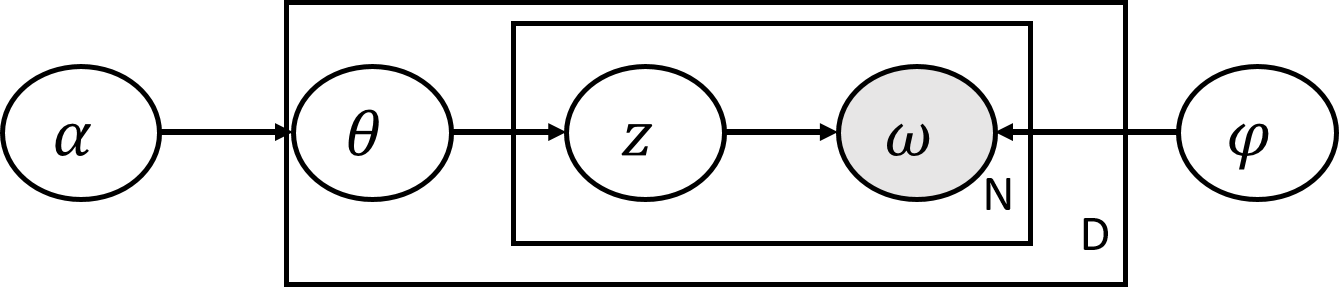
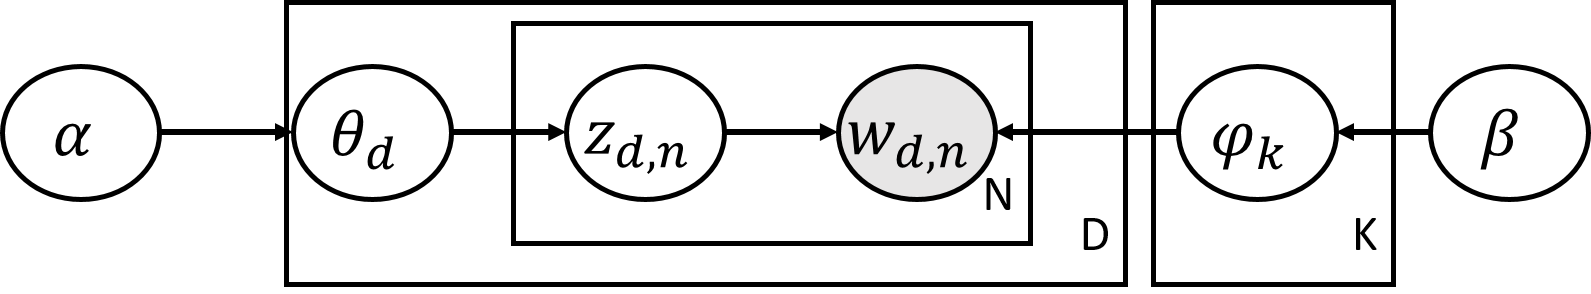
portfolio edited

Changed region(s): [[0.1531, 0.0, 1.0, 0.9796], [0.0, 0.2143, 0.1225, 0.7041]]

diff --git a/_machine/2019-07-27-Latent Dirichlet Allocation.md b/_machine/2019-07-27-Latent Dirichlet Allocation.md
@@ -7,7 +7,7 @@ mathjax: true
 
 We have discussed about general Expectation Maximization algorithm and how it can be used in optimizing Gaussian Mixture Model. In this article, we will talk how EM can be used in Latent Dirichlet Allocation, which is one of method of topic modeling.
 
-Before we get into LDA, let's see what Dirichlet distribution  and Beta distribution is.
+Before we get into LDA, let's see what Dirichlet distribution and Beta distribution are.
 
 
 
@@ -23,7 +23,7 @@ And gamma function in above equation is:
 
 $$ \Gamma(x) = \int_0^\infty \theta^{x-1} e^{-\theta} d\theta$$
 
-Beta distribution is widely used, because it is  conjugate priors for the binomial and Bernoulli distribution. Here is how Beta distribution looks like with different parameters:
+Beta distribution is widely used, because it is conjugate priors for the binomial and Bernoulli distribution. Here is how Beta distribution looks like with different parameters:
 
 <p align= "center">
     <img src = "../../assets/img/machine/12-beta.png" width= "70%">
@@ -61,27 +61,51 @@ We can say Dirichlet distribution is an extension of Beta distribution.
 
 ## Latent Dirichlet Allocation
 
-Suppose we have a customer review on a product. Then the review might consists of several different topics such as positive, negative, opinions about products, price or any other subjects. A document is a distribution over several topics. And the topic is a distribution over words. That is, we assume each document consists of words $$w$$ that are generated from selected topic $$z$$.  And the topic is selected with topic probabilities $$\theta$$, like it does in Gaussian Mixture Model. Directed Acyclic Graph of LDA looks like:
-
-
+Suppose we have a customer review on a product. Then the review might consists of several different topics such as positive, negative, opinions about products, price or any other subjects. A document is a distribution over several topics. And the topic is a distribution over words. That is, we assume each document consists of words $$w$$ that are generated from selected topic $$z$$.  And the topic is selected with topic probabilities $$\theta$$. From the original paper[^1], it uses Poisson distribution to choose the distribution of words for topic, here we will use Dirichlet distribution. Then Directed Acyclic Graph would look like:
 
 <p align="center">
-    <img src ="../../assets/img/machine/12-lda-dag.png" style="width:70%">
+    <img src ="../assets/img/machine/12-lda-dag.png" style="width:70%">
     <br/>
     <sub>DAG of LDA</sub>
 </p>
 
-So each document has topic proportions which is $$\theta_d$$. And for each document and each word, it has per word topic assignment $$z_{dn}$$. And the latent variable $$z_{dn}$$ can take values from 1 to T, the number of topics. We will find this latent variable values from the corpus. Finally, each word $$w_{dn}$$ can take values from 1 to V, where V is the size of category.
+- D is the number of documents and N is the number of words in the document $$d$$.
+- K is the number of topics.
+- $$\alpha$$ and $$\beta$$ are the hyperparameters of the prior distribution over $$\theta$$ and $$\phi$$ respectively.
+- $$\theta_d$$ is the distribution of topics over documents d(K-length vector).
+- $$\phi_k$$ is the distribution of words for topic k(V-length vector).
+- $$ z_{d,n}$$ is the topic for the $$n$$th word in the $$d$$th document, $$w_{d,n}$$.
 
-Now we can define joint probability from above DAG:
 
-$$ p(W, Z, \Theta) = \prod_{d=1}^D p(\theta_d) \prod_{n=1}^{N_d} p(z_{dn}\mid \theta_d) p(w_{dn} \mid z_{dn} ) $$
 
-$$p(\theta_d) \sim Dir(\alpha)$$
+Here is the process of generating documents in LDA:
 
-$$ p(z_{dn} \mid \theta ) = \theta_{dz_{dn}}$$
+1. Draw $$\theta_d \sim \operatorname{Dir}(\alpha)$$
+2. Draw $$\phi_k \sim \operatorname {Dir}(\beta)$$
+3. For each word in each document, draw per-word topic assignment $$z_{d,n} \sim \operatorname{Multinomial}(\theta)$$
+4. For each word in each document, draw observed word $$w_{d,n} \sim \operatorname{Multinomial}(\phi_{z_{d,n},n})$$
 
-$$ p(w_{dn} \mid z_{dn}) = \phi_{z_{dn}w_{dn}}$$
+
+
+From DAG of LDA, we can define the joint probability of the word $$w$$, the latent variable $$z$$, topic distribution over documents $$\theta$$, and the topic distribution over words $$\phi$$ given $$\alpha$$ and $$\beta$$:
+
+$$ p (\theta, z, w, \phi \mid \alpha, \beta) = \prod_k p(\phi_k \mid \beta) \prod_d[ p(\theta_d \mid \alpha) \prod_n p(z_{d,n} \mid \theta_d) p(w_{d,n} \mid z_{d,n}, \phi)]$$
+
+where
+
+$$ p(\phi_k \mid \beta) \sim Dir (\beta)$$
+
+$$p(\theta_d \mid \alpha) \sim Dir(\alpha)$$
+
+$$ p(z_{d,n} \mid \theta_d ) \sim Multinomial(\theta_d)$$
+
+$$ p(z_{d,n} = k \mid \theta_d) = (\theta_d)_k$$
+
+$$ p(w_{d,n} \mid z_{n}, \phi) \sim Multinomial(\phi)$$
+
+$$p(w_{d,n} = v \mid z_{d,n}, \phi_1, ... ,\phi_K) = (\phi_{z_{d,n}})_v$$
+
+<br/>
 
 
 
@@ -95,22 +119,40 @@ $$ L(\theta, q) \rightarrow \underset{q}{\operatorname{argmin}} KL [q(T) \| p(T 
 
 $$ L(\theta, q) \rightarrow \underset{q}{\operatorname{argmax}} \mathbb{E}_{q(T)} \operatorname{log} p (X, T \mid \theta)$$
 
-Here in EM, we evaluate full posterior of T, $$p(T \mid X, \theta)$$. However, this way of evaluating could be slow or even intractable sometimes. Instead, we 
+Here in EM, we evaluate full posterior of T, $$p(T \mid X, \theta)$$ to optimize q. However, this way of evaluating could be slow or even intractable sometimes. Instead, we restrict q to lie in some class of distribution $$Q$$. For instance, we can assume the variational family factorizes:
+
+$$ q(z_1, .., z_m) = \prod_{j=1}^m q(z_j)$$
+
+where each variables are assumed to be independent.
+
+<br/>
+
+So the probability of word given hyperparameters:
+
+$$ p(w \mid \alpha, \beta) = \int \prod_k (\phi_k \mid \beta) \int \sum_z \prod_d[p(\theta_d, \alpha) \prod_n p(z_{d,n } \mid \theta_d) p(w_{d,n} \mid z_{d,n}, \phi) ] d\theta d\phi$$
+
+Then log probability would be
+
+$$ \operatorname{log}p(w \mid \alpha, \beta) = \operatorname{log} \int \int \sum_z p(w, z, \theta, \phi \mid \alpha, \beta) d\theta d\phi $$
+
+using Jensen's inequality gives:
+
+$$ \geq q(z, \theta, \phi) log \int \int \sum_z \frac{p(w, z, \theta, \phi \mid \alpha, \beta)}{q(z, \theta, \phi)} d\theta d\phi $$
+
+Here we restrict the form of q:
+
+$$q(z, \theta, \phi)  = \prod_k q(\phi_k \mid \beta) \prod_d q(\theta_d \mid \alpha) \prod_n q(z_{d,n})$$
 
 
-
-In **E- step**,
-
-$$ L(\theta, q)  $$
-
-To find out latent parameters $$\theta, z, \phi$$, we can use EM algorithm we learned from previous articles.
-
-In **E-step**, we maximize 
 
 
 
 ## Reference
 
+- [^1]: D.M. Blei, A.Y. Ng, and M.I. Jordan. Latent Dirichlet allocation. JMLR, 3:993–1022, 2003.
+
 - Bayesian Methods for Machine Learning by National Research University Higher School of Economics
--  CS498 Applied Machine Learning by Professor Trevor Walker
--  데이터 사이언스 스쿨. (2016, 05 25 Published). 디리클레분포. https://datascienceschool.net/view-notebook/e0508d3b7dd6427eba2d35e1f629d3de/
+
+- CS498 Applied Machine Learning by Professor Trevor Walker
+
+-  will wolf. (2018, 11 11 Published). Deriving Expectation Maximization. http://willwolf.io/2018/11/11/em-for-lda/

diff --git a/_portfolio/0-앱 설치 데이터 기반 추천 시스템 개발.md b/_portfolio/0-앱 설치 데이터 기반 추천 시스템 개발.md
@@ -37,7 +37,7 @@ mathjax: true
 
 #### 1. 데이터 가공 및 전처리
 
-기본 데이터는 날짜, 사용자ID, 앱ID, flag로 이루어져있고 각 날짜마다 사용자가 어떤 앱을 가지고 있는지 그리고 전날과 비교하여 어떠한 앱을 설치하거나 삭제했는지 flag로 나타나있다. 이 중에서 종종 ID가 규격에 맞지 않거나 일정 수준 이상으로 앱을 많이 설치한 사용자나 전체 설치 개수가 너무 적은 앱 같은 경우 제거해준다. 이를 분석에 알맞게 사용자 - 앱 행렬 형태로 전환해준다. 앱 종류만 대략 12만개, 사용자는 천만여명이 넘어가 sparse matrix를 사용한다. 또, 앱 embedding 생성을 위해 사용자 - 앱 리스트 행렬도 생성해준다.
+기본 데이터는 날짜, 사용자ID, 앱ID, flag로 이루어져있고 각 날짜마다 사용자가 어떤 앱을 가지고 있는지 그리고 전날과 비교하여 어떠한 앱을 설치하거나 삭제했는지 flag로 나타나있다. 이 중에서 종종 ID가 규격에 맞지 않거나 일정 수준 이상으로 앱을 많이 설치한 사용자나 전체 설치 개수가 너무 적은 앱 같은 경우 제거해준다. 이를 분석에 알맞게 사용자 - 앱 설치 여부 행렬 형태로 전환해준다. 앱 종류만 대략 12만개, 사용자는 천만여명이 넘어가 sparse matrix를 사용한다. 또, 앱 embedding 생성을 위해 사용자 - 앱 리스트 행렬도 생성해준다.
 
 
 
@@ -64,15 +64,15 @@ mathjax: true
 - 그룹별 타겟팅 세트 추출
 - 그룹 중 해당 앱을 설치하지 않은 ADID 추천
 
- 마지막으로 이렇게 나온 최적의 모델을 앱 배너 광고를 통해  A/B 테스트했다. 광고 테스트를 진행한 앱과 같은 카테고리, 다른 카테고리 2가지 경우를 기존 추천방식과 비교해보았다. 그 결과, 기존의 추천 방식과 클릭률(Click-Through Rate)은 상이했지만 전환율(Conversion Rate)은 2배 가까이 높게 나타나 성공적이었다.
+ 마지막으로 이렇게 나온 최적의 모델을 앱 배너 광고를 통해  A/B 테스트했다. 배너 광고를 진행한 앱과 같은 카테고리의 앱 한 가지, 다른 카테고리의 앱 한 가지를 기존 추천방식에서 뽑은 ADID와 새로 개발한 모델에서 뽑은 ADID에게 추천해보았다. 그 결과, 기존의 추천 방식과 앱 배너 클릭률(Click-Through Rate)은 상이했지만 전환율(Conversion Rate) 혹은 앱 설치율은 2배 가까이 높게 나타나 성공적이었다.
 
 
 
 ### 개선점
 
-먼저 오프라인에서 모델들의 성능 테스트를 mAP으로만 사용한 것이 한계점이라고 생각한다. 추천에 있어서 새로운 나온 앱을 추천하거나 다양한 카테고리의 앱을 선별해주는 것도 중요한 기능 중 하나인데, mAP만을 사용해서 그 부분을 반영하지 못한 거 같다. Normalized Discounted Cumulative Gain이나 Entropy Diversity를 다음에 활용해봐야겠다.
+- 먼저 오프라인에서 모델들의 성능 테스트를 mAP으로만 사용한 것이 한계점이라고 생각한다. 추천에 있어서 새로운 나온 앱을 추천하거나 다양한 카테고리의 앱을 선별해주는 것도 중요한 기능 중 하나인데, mAP만을 사용해서 그 부분을 반영하지 못한 거 같다. Normalized Discounted Cumulative Gain와 Entropy Diversity를 다음에 활용해봐야겠다.
 
-데이터의 한계점으로서는 앱 사용 시간이나 순서 같은 것이 담겨져 있지 않아 아쉬웠다. 사용 시간을 통해 각 앱에 대해 가중치를 주거나 순서를 통해 더 많은 정보를 활용하지 못했다.
+- 데이터의 한계점으로서는 앱 사용 시간이나 순서 같은 것이 담겨져 있지 않아 아쉬웠다. 사용 시간을 통해 각 앱에 대해 가중치를 주거나 순서를 통해 더 많은 정보를 활용하지 못했다.
 
 
 

diff --git a/_portfolio/1-쇼핑몰 로그 데이터 고객 클러스터링.md b/_portfolio/1-쇼핑몰 로그 데이터 고객 클러스터링.md
@@ -36,7 +36,7 @@ mathjax: true
 
 #### 1. 기본 고객 군집화
 
-각 사용자가 어떤 카테고리의 물품을 얼마만큼 구매했는 지에 대한 로그 데이터를 통해서 사용자를 클러스터링했다. 기본적으로 고객은 충성 고객, 신규 고객, 이탈 고객 등 여러 집단으로 나누어지고, 시간에 따라 속하는 집단이 변한다고 가정했다. 군집을 나누는 방법에 따라 군집화는 밀도, 계층, 그리드 등 여러 방법이 있지만 시간에 따라 고객의 군집 이동을 보기 위해서는 군집의 중심점이 필요하다. 따라서, 중심점이 존재하는 K-means와 K-medoids 기법을 사용하였다. 일반적으로 군집 개수 설정에 있어서 Elbow method를 사용하지만 보다 자동화된 군집 개수 설정을 위해 Pham과 Dimov의 Selection of K in K-means clustering 논문에서 정의된 K군집 평가함수를 사용하였다. 이 군집 평가 함수는 K-1에 비하여 현재 K 군집의 거리가 얼만큼 줄었는 지를 통해 각 K 군집을 평가한다. 또 군집 내 데이터 거리와 군집간의 거리를 기반으로 평가하는 Silhouette Coefficient를 통하여 K 군집을 종합적으로 평가했다.
+각 사용자가 어떤 카테고리의 물품을 얼마만큼 구매했는 지에 대한 로그 데이터를 통해서 사용자를 클러스터링했다. 기본적으로 고객은 충성 고객, 신규 고객, 이탈 고객 등 여러 집단으로 나누어지고, 시간에 따라 속하는 집단이 변한다고 가정했다. 군집을 나누는 방법에 따라 군집화는 밀도, 계층, 그리드 등 여러 방법이 있지만 시간에 따라 고객의 군집 이동을 보기 위해서는 군집의 중심점이 필요하다. 따라서, 중심점이 존재하는 K-means와 K-medoids 기법을 사용하였다. 일반적으로 군집 개수 설정에 있어서 Elbow method를 사용하지만 보다 자동화된 군집 개수 설정을 위해 Pham과 Dimov의 Selection of K in K-means clustering 논문[^1]에서 정의된 K군집 평가함수를 사용하였다. 이 군집 평가 함수는 K-1에 비하여 현재 K 군집의 거리가 얼만큼 줄었는 지를 통해 각 K 군집을 평가한다. 또 군집 내 데이터 거리와 군집간의 거리를 기반으로 평가하는 Silhouette Coefficient를 통하여 K 군집을 종합적으로 평가했다.
 
 
 
@@ -62,8 +62,12 @@ mathjax: true
 
 Python: numpy, pandas, scikit-learn, pyspark
 
+로컬에서 분석 진행 후, 서버에서 전처리 및 최종 분석 진행
+
 
 
 ### 참조 논문
 
 - Pham, D. T., Dimov, S. S., & Nguyen, C. D. (2005). Selection of K in K-means clustering. *Proceedings of the Institution of Mechanical Engineers, Part C: Journal of Mechanical Engineering Science*, *219*(1), 103-119.
+
+  [^1]:Pham, D. T., Dimov, S. S., & Nguyen, C. D. (2005). Selection of K in K-means clustering. *Proceedings of the Institution of Mechanical Engineers, Part C: Journal of Mechanical Engineering Science*, *219*(1), 103-119.

diff --git a/_portfolio/3-VOC 데이터 분류.md b/_portfolio/3-VOC 데이터 분류.md
@@ -19,7 +19,7 @@ mathjax: true
 
 ### 기간
 
-2019.08.01 ~ 2019.11
+2019.08 ~ 2019.11
 
 
 
